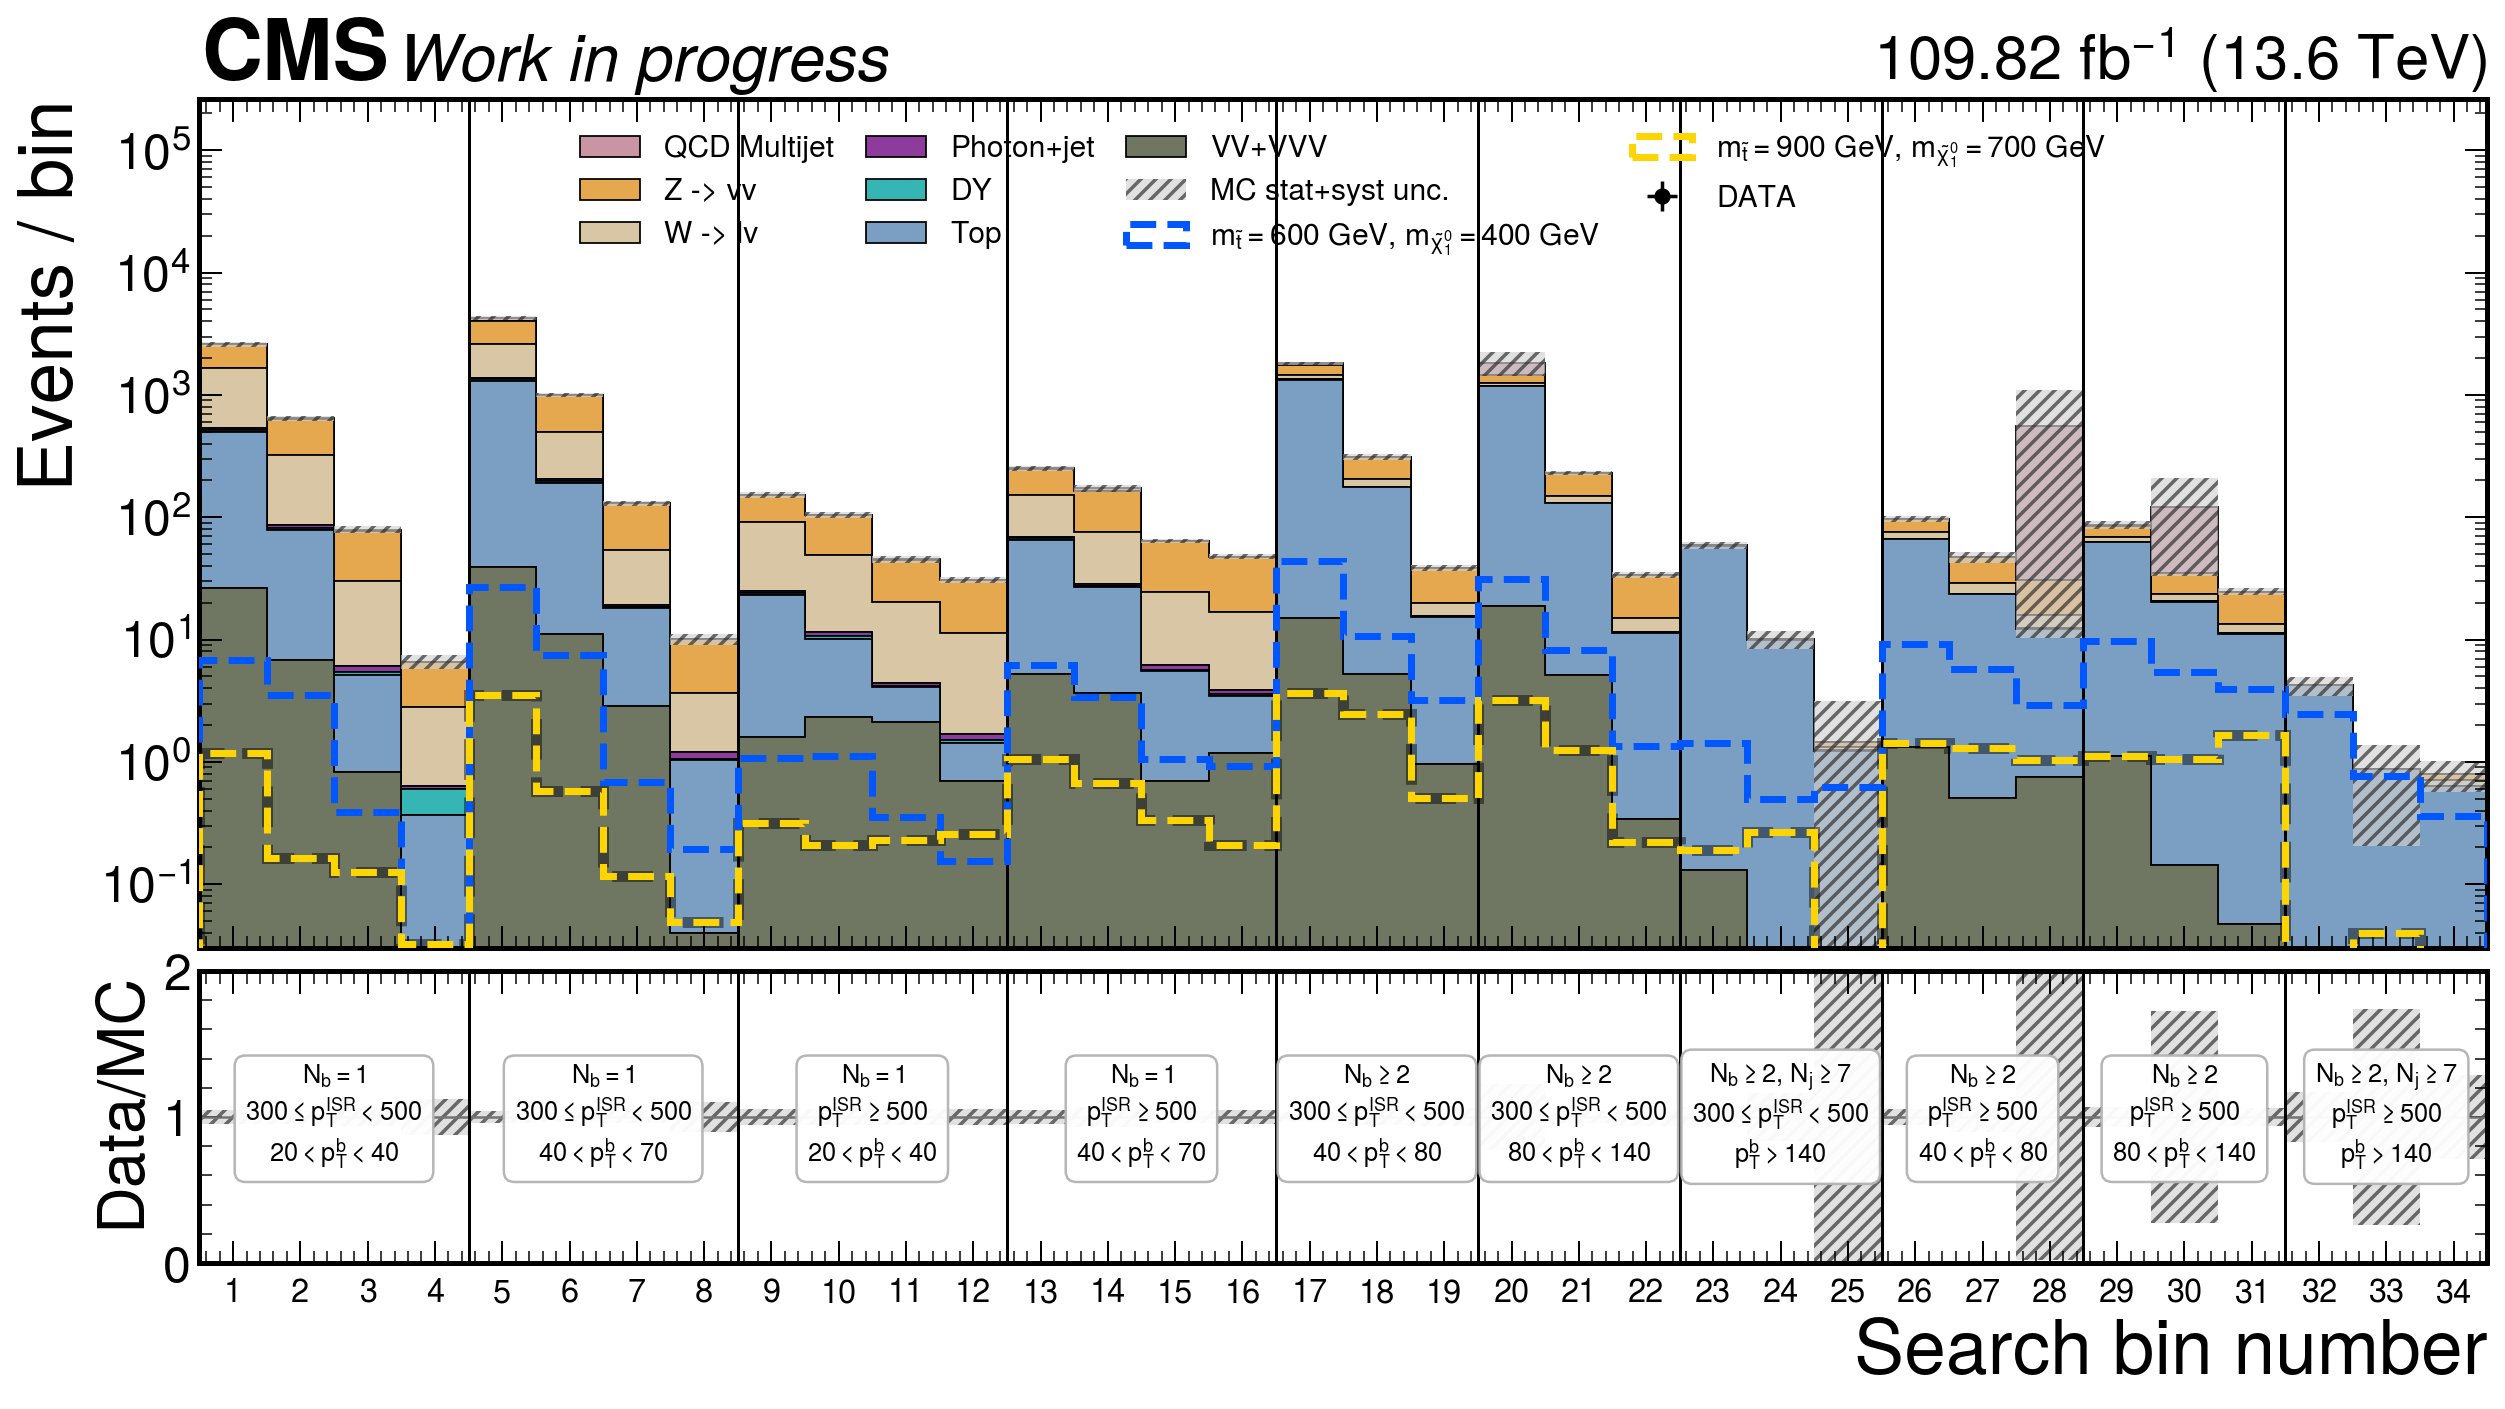
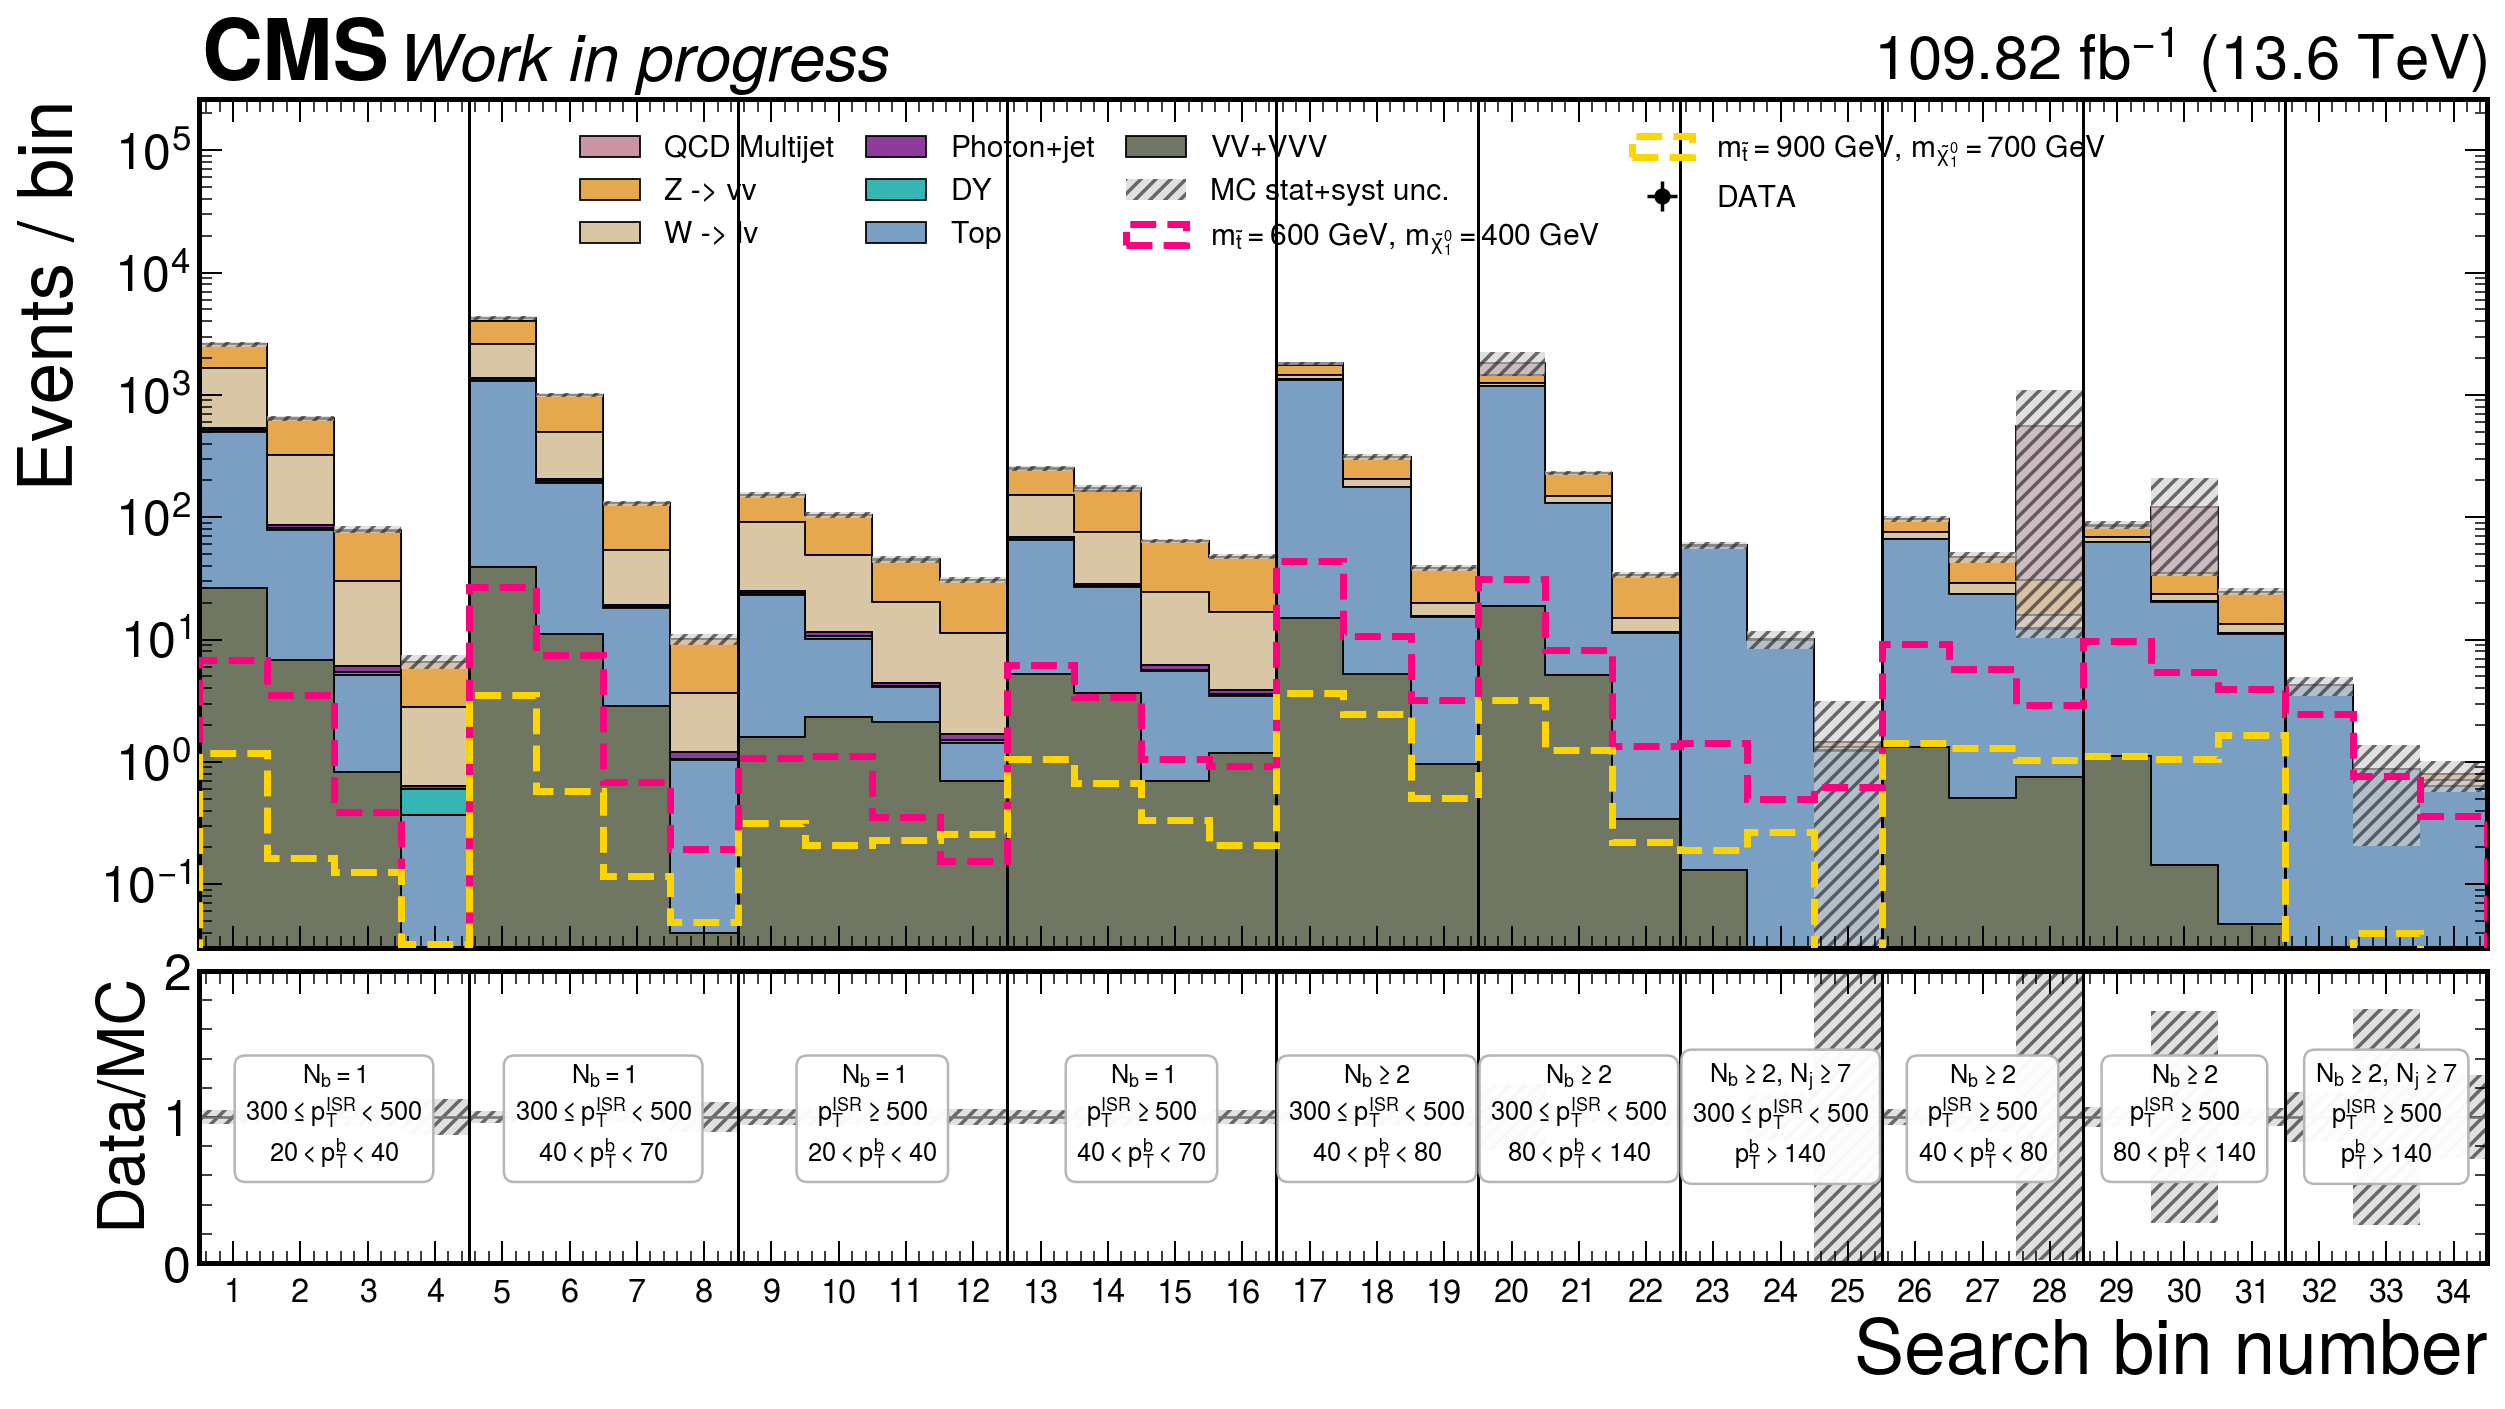
Restyle Low-dM signal overlays

diff --git a/autonomous_allhad/workflow/plot_control_search_bins_style.py b/autonomous_allhad/workflow/plot_control_search_bins_style.py
@@ -64,15 +64,12 @@ LOWDM_SIGNAL_OVERLAYS = [
     {
         "key": "mStop600_mLSP400",
         "label": '$m_{\\tilde{t}}=600$ GeV, $m_{\\tilde{\\chi}^{0}_{1}}=400$ GeV',
-        "color": "#0057FF",
+        "color": "#FF007F",
     },
     {
         "key": "mStop900_mLSP700",
         "label": '$m_{\\tilde{t}}=900$ GeV, $m_{\\tilde{\\chi}^{0}_{1}}=700$ GeV',
         "color": "#FFD500",
-        "outline_color": "black",
-        "outline_alpha": 0.45,
-        "outline_linewidth": 4.4,
     },
 ]
 LOWDM_NSV_INCLUSIVE_CATEGORY_SIZES = [
